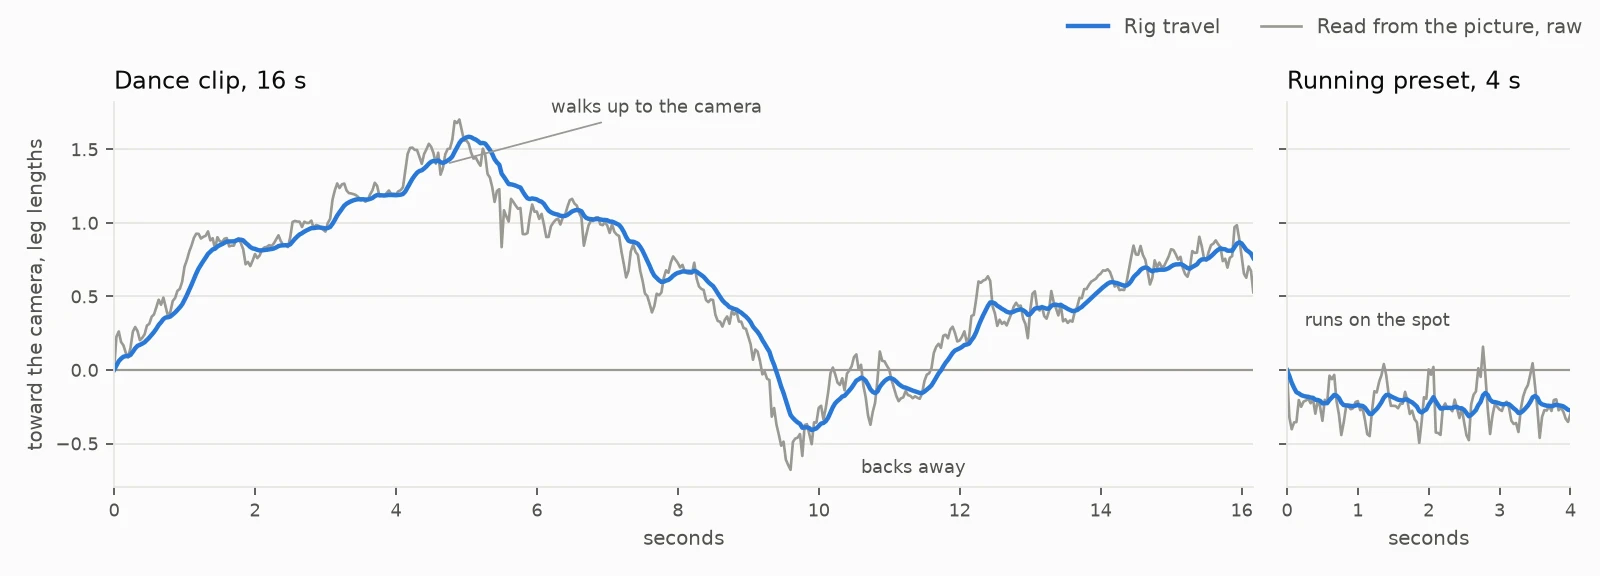
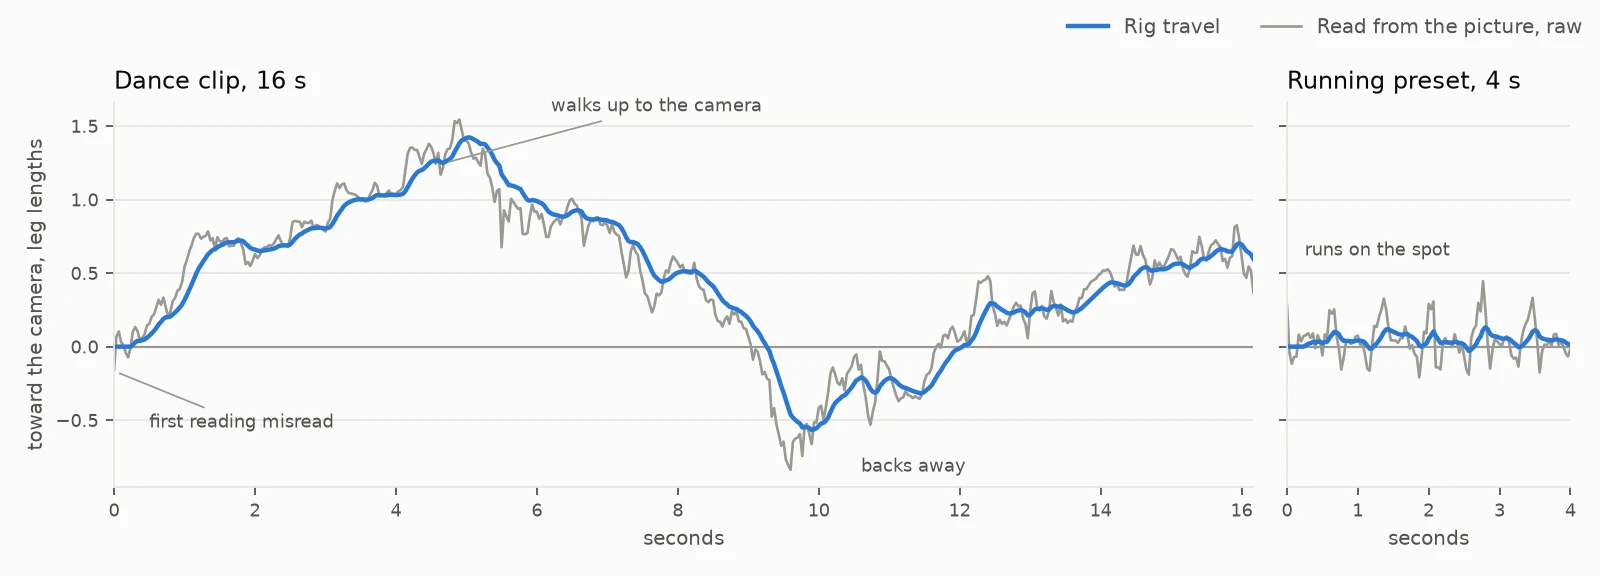
fix: steady the first frame of a new capture source
A video's first reading is a fresh detection rather than a tracked one, and on
both attached clips its depth was off by 15 to 18 cm. Travel was measured from
it, so the rig slid a fifth of a leg at the start and the whole take kept that
offset. The start is now the median of the first quarter second of readings,
with the rig held still while they are read: the running preset stays within
an eighth of a leg of its spot and ends where it began.

With lost limbs now held, the first frame of a new video, photo or camera
session would also have kept whatever pose the rig was left in for a limb it
cannot see. That frame resets every limb it may drive, so an unseen one starts
from rest. The source reset is renamed startNewCameraSource for both.

Claude-Session: https://claude.ai/code/session_01BnQFqnDgVXWFXYHvxa8r9Y

diff --git a/src/views/Tools/RigAnimator/cameraPoseTravel.ts b/src/views/Tools/RigAnimator/cameraPoseTravel.ts
@@ -8,6 +8,7 @@ import {
   CAMERA_FOOT_RELEASE_LIFT_SHARE,
   CAMERA_FOOT_RELEASE_MILLISECONDS,
   CAMERA_LANDMARK_VISIBILITY_THRESHOLD,
+  CAMERA_TRAVEL_ANCHOR_MILLISECONDS,
   CAMERA_TRAVEL_SMOOTHING_MILLISECONDS
 } from './config'
 import {
@@ -141,13 +142,29 @@ export const rigLegLength = (rest: CameraRetargetRest): number | null => {
 const isContinuous = (elapsedSeconds: number): boolean =>
   elapsedSeconds > 0 && elapsedSeconds <= CAMERA_BONE_SMOOTHING_RESET_SECONDS
 
+const median = (values: number[]): number => {
+  const sorted = [...values].sort((a, b) => a - b)
+  const middle = Math.floor(sorted.length / 2)
+  return sorted.length % 2 === 1 ? sorted[middle] : (sorted[middle - 1] + sorted[middle]) / 2
+}
+
+/** Where a set of readings agree the performer stands, axis by axis, so one misread is outvoted. */
+const medianPosition = (readings: Vector3Data[]): Vector3Data => ({
+  x: median(readings.map(({ x }) => x)),
+  y: median(readings.map(({ y }) => y)),
+  z: median(readings.map(({ z }) => z))
+})
+
 /**
  * Carry the rig across the floor to where the performer now stands, measured from where they
  * stood when the source started and scaled by the two leg lengths, so a performer's stride is the
- * rig's stride. Only the level part is taken: height is grounding's job. The rig eases toward the
- * new spot over `CAMERA_TRAVEL_SMOOTHING_MILLISECONDS`; after a gap in the readings, a paused or
- * seeked video, it lands straight on it, still measured from the same start, so a clip seeked or
- * replayed puts the rig where the performer is at that moment.
+ * rig's stride. Only the level part is taken: height is grounding's job. The start is where the
+ * readings of the first `CAMERA_TRAVEL_ANCHOR_MILLISECONDS` agree the performer stood, and the rig
+ * stays put while it is read, so the misread first frame of a video neither slides the rig nor
+ * offsets the take. The rig then eases toward each new spot over
+ * `CAMERA_TRAVEL_SMOOTHING_MILLISECONDS`; after a gap in the readings, a paused or seeked video, it
+ * lands straight on it, still measured from the same start, so a clip seeked or replayed puts the
+ * rig where the performer is at that moment.
  * @param previous The travel so far, or null for the first reading of a source
  * @param reading Where the performer stands and how long their legs are, this frame
  * @param rigLegLengthUnits The rig's own leg length, from `rigLegLength`
@@ -164,12 +181,32 @@ export const advanceCameraTravel = (
     return {
       origin: reading.bodyPosition,
       performerLegLength: reading.performerLegLength,
-      offset: { x: 0, y: 0, z: 0 }
+      offset: { x: 0, y: 0, z: 0 },
+      sourceSeconds: 0,
+      startReadings: [reading.bodyPosition]
     }
   }
   const share = isContinuous(elapsedSeconds)
     ? lowPassBlendFactor(smoothingCutoffHertz(CAMERA_TRAVEL_SMOOTHING_MILLISECONDS), elapsedSeconds)
     : 1
+  const sourceSeconds = previous.sourceSeconds + (isContinuous(elapsedSeconds) ? elapsedSeconds : 0)
+  if (
+    previous.startReadings.length > 0 &&
+    sourceSeconds < CAMERA_TRAVEL_ANCHOR_MILLISECONDS / 1000
+  ) {
+    const startReadings = [...previous.startReadings, reading.bodyPosition]
+    return {
+      ...previous,
+      origin: medianPosition(startReadings),
+      performerLegLength: THREE.MathUtils.lerp(
+        previous.performerLegLength,
+        reading.performerLegLength,
+        share
+      ),
+      sourceSeconds,
+      startReadings
+    }
+  }
   const performerLegLength = THREE.MathUtils.lerp(
     previous.performerLegLength,
     reading.performerLegLength,
@@ -185,7 +222,9 @@ export const advanceCameraTravel = (
   return {
     origin: previous.origin,
     performerLegLength,
-    offset: { x: toward('x'), y: 0, z: toward('z') }
+    offset: { x: toward('x'), y: 0, z: toward('z') },
+    sourceSeconds,
+    startReadings: []
   }
 }
 

diff --git a/src/views/Tools/RigAnimator/useRigCameraPose.test.ts b/src/views/Tools/RigAnimator/useRigCameraPose.test.ts
@@ -7,7 +7,10 @@ import { captureCameraRetargetRest } from './cameraPoseRetarget'
 import { rigLegLength } from './cameraPoseTravel'
 import { RIG_BODY_PART_GROUPS, type RigBodyPartGroup } from './bodyPartGroups'
 import { smoothCameraPoseFrame } from './cameraPoseFrame'
-import { CAMERA_BONE_MAX_TURN_DEGREES_PER_SECOND } from './config'
+import {
+  CAMERA_BONE_MAX_TURN_DEGREES_PER_SECOND,
+  CAMERA_TRAVEL_ANCHOR_MILLISECONDS
+} from './config'
 import {
   buildBodyLandmarks,
   buildHandLandmarks,
@@ -131,6 +134,31 @@ describe('useRigCameraPose', () => {
     }
   )
 
+  it('starts a limb the first frame of a new source cannot see from rest, not from the last source', () => {
+    // Arrange: the last source left the left arm raised
+    const { applyCameraPose, startNewCameraSource, bone, restPoses } = buildWiredRig()
+    applyCameraPose(
+      {
+        ...EMPTY_FRAME,
+        bodyLandmarks: buildBodyLandmarks({ 13: [0.2, -0.8, 0], 15: [0.22, -1.05, 0] })
+      },
+      OPTIONS,
+      ALL_GROUPS
+    )
+    const elbowLost = buildBodyLandmarks().map((landmark, index) =>
+      index === 13 ? { ...landmark, visibility: 0 } : landmark
+    )
+
+    // Act: a new video starts on a frame that cannot see that elbow
+    startNewCameraSource()
+    applyCameraPose({ ...EMPTY_FRAME, bodyLandmarks: elbowLost }, OPTIONS, ALL_GROUPS)
+
+    // Assert
+    expect(
+      bone('mixamorigLeftArm').quaternion.angleTo(restPoses.get('mixamorigLeftArm')!.quaternion)
+    ).toBeCloseTo(0)
+  })
+
   it('curls the fingers of a hand filmed on its own without resetting the posed body', () => {
     // Arrange: the body is posed by an earlier frame, then only a hand stays in view.
     const { applyCameraPose, bone } = buildWiredRig()
@@ -166,15 +194,17 @@ describe('useRigCameraPose', () => {
       bodyLandmarks: STANDING,
       bodyPosition: { x: 0, y: 0, z: -3 + metresCloser }
     })
-    /** A walk of `metres` toward the camera over two seconds, then two seconds standing there. */
+    /** Frames the performer stands still for before walking, as long as the start is taken over. */
+    const STANDING_FRAMES = Math.ceil(CAMERA_TRAVEL_ANCHOR_MILLISECONDS / FRAME_MILLISECONDS)
+    /** Standing still, a walk of `metres` toward the camera over two seconds, then two seconds there. */
     const walkToward = (
       applyCameraPose: ReturnType<typeof buildWiredRig>['applyCameraPose'],
       options: ReturnType<typeof buildMappingOptions>,
       metres: number
     ): void =>
-      Array.from({ length: 120 }).forEach((_, index) =>
+      Array.from({ length: STANDING_FRAMES + 120 }).forEach((_, index) =>
         applyCameraPose(
-          standingAt(Math.min(1, index / 60) * metres),
+          standingAt(Math.min(1, Math.max(0, index - STANDING_FRAMES) / 60) * metres),
           options,
           ALL_GROUPS,
           index * FRAME_MILLISECONDS
@@ -294,12 +324,12 @@ describe('useRigCameraPose', () => {
 
     it('starts the next source from the rig’s own spot, not from where the last one left it', () => {
       // Arrange
-      const { applyCameraPose, resetCameraTravel, bone, restPoses } = buildWiredRig()
+      const { applyCameraPose, startNewCameraSource, bone, restPoses } = buildWiredRig()
       const options = buildMappingOptions({ followTravel: true })
       walkToward(applyCameraPose, options, 1)
 
       // Act
-      resetCameraTravel()
+      startNewCameraSource()
       applyCameraPose(standingAt(0.5), options, ALL_GROUPS, 10_000)
 
       // Assert

diff --git a/src/views/Tools/RigAnimator/cameraPoseTravel.test.ts b/src/views/Tools/RigAnimator/cameraPoseTravel.test.ts
@@ -13,6 +13,7 @@ import { buildBodyLandmarks, buildMixamoRig } from './fixtures/cameraPoseFixture
 import {
   CAMERA_FOOT_PIN_MAX_STRETCH_SHARE,
   CAMERA_FOOT_RELEASE_MILLISECONDS,
+  CAMERA_TRAVEL_ANCHOR_MILLISECONDS,
   CAMERA_TRAVEL_SMOOTHING_MILLISECONDS
 } from './config'
 import type { CameraFootPins, CameraLandmark, CameraTravel } from './types'
@@ -130,6 +131,13 @@ describe('advanceCameraTravel', () => {
       (travel) => advanceCameraTravel(travel, next, RIG_LEG, FRAME_SECONDS),
       start
     )
+  /** A source whose performer stood three metres away for as long as the start is taken over. */
+  const standingStart = (): CameraTravel =>
+    settle(
+      advanceCameraTravel(null, reading(0, -3), RIG_LEG, Infinity),
+      reading(0, -3),
+      CAMERA_TRAVEL_ANCHOR_MILLISECONDS / 1000
+    )
 
   it('starts where the performer first stands', () => {
     // Act
@@ -139,13 +147,24 @@ describe('advanceCameraTravel', () => {
     expect(travel.offset).toEqual({ x: 0, y: 0, z: 0 })
   })
 
+  it('takes the start from the first readings together, so one misread first reading moves nothing', () => {
+    // Arrange: the very first reading, a fresh detection, puts the performer 20 cm too close
+    const misread = advanceCameraTravel(null, reading(0, -2.8), RIG_LEG, Infinity)
+
+    // Act: the performer actually stands still three metres away throughout
+    const travel = settle(misread, reading(0, -3), 2)
+
+    // Assert
+    expect(travel.offset.z).toBeCloseTo(0, 0)
+  })
+
   it.each([
     { label: 'toward the camera', x: 0, z: -2, expected: { x: 0, z: 100 } },
     { label: 'away from the camera', x: 0, z: -3.5, expected: { x: 0, z: -50 } },
     { label: 'to the right', x: 0.5, z: -3, expected: { x: 50, z: 0 } }
   ])('carries the rig $label, in rig units scaled by leg length', ({ x, z, expected }) => {
     // Arrange
-    const start = advanceCameraTravel(null, reading(0, -3), RIG_LEG, Infinity)
+    const start = standingStart()
 
     // Act
     const travel = settle(start, reading(x, z), (CAMERA_TRAVEL_SMOOTHING_MILLISECONDS / 1000) * 12)
@@ -158,7 +177,7 @@ describe('advanceCameraTravel', () => {
 
   it('eases toward a new position rather than jumping to it', () => {
     // Arrange
-    const start = advanceCameraTravel(null, reading(0, -3), RIG_LEG, Infinity)
+    const start = standingStart()
 
     // Act
     const travel = advanceCameraTravel(start, reading(0, -2), RIG_LEG, FRAME_SECONDS)
@@ -175,7 +194,7 @@ describe('advanceCameraTravel', () => {
     'lands straight on where the performer is after $label, measured from the same start',
     ({ elapsedSeconds }) => {
       // Arrange
-      const start = advanceCameraTravel(null, reading(0, -3), RIG_LEG, Infinity)
+      const start = standingStart()
       const walked = settle(start, reading(0, -2), 3)
 
       // Act

diff --git a/src/views/Tools/RigAnimator/useRigCameraPose.ts b/src/views/Tools/RigAnimator/useRigCameraPose.ts
@@ -51,11 +51,18 @@ export const useRigCameraPose = (
   let travel: CameraTravel | null = null
   /** Each foot held where it landed. */
   let footPins: CameraFootPins = {}
+  /** Whether no body has been applied since the source started, so there is no pose to hold. */
+  let isFreshSource = true
 
-  /** Start the next reading from the rig's own spot, as a new video or camera session should. */
-  const resetCameraTravel = (): void => {
+  /**
+   * Start the next reading afresh, as a new video, photo or camera session should: travel from the
+   * rig's own spot, no foot held, and a limb the first frame cannot see at rest rather than held in
+   * whatever pose the rig was left in.
+   */
+  const startNewCameraSource = (): void => {
     travel = null
     footPins = {}
+    isFreshSource = true
   }
 
   // Synchronous on purpose: the rig stands at rest the instant its bones are adopted, and a
@@ -65,7 +72,7 @@ export const useRigCameraPose = (
     (nextBones) => {
       retargetRest = nextBones.length > 0 ? captureCameraRetargetRest(nextBones) : null
       turnTracks.clear()
-      resetCameraTravel()
+      startNewCameraSource()
     },
     { immediate: true, flush: 'sync' }
   )
@@ -123,11 +130,14 @@ export const useRigCameraPose = (
     timestampMilliseconds: number = performance.now()
   ): void => {
     if (!retargetRest) return
+    // A cut-off of 0 counts every limb as seen: each is reset to rest, and only the ones really in
+    // view are posed.
     const drivenBoneNames = cameraFrameDrivenBoneNames(
       frame,
       boneNamesInGroups(bones.value, targetGroups),
-      options.visibilityThreshold
+      isFreshSource ? 0 : options.visibilityThreshold
     )
+    if (frame.bodyLandmarks) isFreshSource = false
     const previousTransforms =
       options.boneSmoothingMilliseconds > 0 || options.maxBoneTurnRadiansPerSecond > 0
         ? captureBoneTransforms(bones.value, drivenBoneNames)
@@ -165,5 +175,5 @@ export const useRigCameraPose = (
     }
   }
 
-  return { canCaptureFromCamera, applyCameraPose, resetCameraTravel }
+  return { canCaptureFromCamera, applyCameraPose, startNewCameraSource }
 }

diff --git a/src/views/Tools/RigAnimator/config.ts b/src/views/Tools/RigAnimator/config.ts
@@ -346,6 +346,13 @@ export const CAMERA_LANDMARK_MAX_JUMP_METERS = 0.15
  * up with a walk. See the travel journey doc for the clip it was measured on.
  */
 export const CAMERA_TRAVEL_SMOOTHING_MILLISECONDS = 250
+/**
+ * How long, in milliseconds, where the performer stands at the start is read over before the rig
+ * travels from it. The first reading of a video is a fresh detection rather than a tracked one, and
+ * on both attached clips its depth was off by 15 to 18 cm: taken alone as the start, it slid the
+ * rig at the first frames and offset the whole take by that much.
+ */
+export const CAMERA_TRAVEL_ANCHOR_MILLISECONDS = 250
 /** How few in-picture body landmarks are too few to judge how large the performer appears. */
 export const CAMERA_BODY_POSITION_MIN_LANDMARKS = 6
 /**

diff --git a/src/views/Tools/RigAnimator/types.ts b/src/views/Tools/RigAnimator/types.ts
@@ -315,6 +315,10 @@ export interface CameraTravel {
   performerLegLength: number
   /** How far the rig's hips are carried from where they stand at rest, in world units, level. */
   offset: Vector3Data
+  /** How long the source has been read for, in seconds. */
+  sourceSeconds: number
+  /** The readings the start is still being taken from; empty once it is settled. */
+  startReadings: Vector3Data[]
 }
 
 /** One foot held where it landed, and how firmly. */

diff --git a/src/views/Tools/RigAnimator/RigAnimator.vue b/src/views/Tools/RigAnimator/RigAnimator.vue
@@ -812,7 +812,7 @@ onUnmounted(() => {
     :fps="reactiveConfig.fps"
     :target-group-labels="targetBodyPartGroupLabels"
     @apply="handleCameraApply"
-    @new-source="rig.resetCameraTravel"
+    @new-source="rig.startNewCameraSource"
     @close="handleCloseCamera"
     @toggle-record="handleToggleRecord"
     @enable-preview="reactiveConfig.cameraShowPreview = true"

diff --git a/documentation/docs/journey/camera-capture-travel.md b/documentation/docs/journey/camera-capture-travel.md
@@ -71,7 +71,15 @@ its changing pose alone. Easing toward it over a quarter of a second keeps the w
 jitter; the rig's movement is the performer's scaled by the ratio of the two leg lengths, so a
 stride is the rig's stride.
 
-![Depth travel over time, in leg lengths toward the camera: on the dance clip the rig follows the raw reading's trend up to about 1.5 as she walks in, back below zero as she backs away and up again; on the running preset it stays in a narrow band around its starting spot](/img/animation/rig-camera-travel-chart.webp)
+The first reading is not like the rest. A video's first frame is a fresh detection rather than a
+tracked one, and its depth was off by 15 cm on the dance clip and 18 cm on the running preset.
+Taken on its own as the start, it slid the rig a fifth of a leg in the first third of a second and
+offset the whole take by as much: the running preset settled a quarter of a leg from where it
+began. The start is now where the readings of the first quarter second agree, their median, with
+the rig held still while they are read; the running preset now stays within an eighth of a leg of
+its spot and ends where it began.
+
+![Depth travel over time, in leg lengths toward the camera: on the dance clip the rig follows the raw reading's trend up to about 1.4 as she walks in, back below zero as she backs away and up again, ignoring the misread first reading; on the running preset it stays in a narrow band around its starting spot](/img/animation/rig-camera-travel-chart.webp)
 
 ## Holding the feet still
 
@@ -104,10 +112,10 @@ keeps the legs within about 18° of the capture while more than halving the slid
 | ---------------------------------------- | ------------------------ | --------------- | ------------------------------------- |
 | Dance, rig on one spot (before)          | 3.2%                     | 7.2%            |                                       |
 | Dance, travel                            | 3.8%                     | 7.8%            |                                       |
-| Dance, travel and pinned feet            | 1.4%                     | 4.5%            | 7.5° mean, 18° at the 95th percentile |
+| Dance, travel and pinned feet            | 1.4%                     | 4.6%            | 7.4° mean, 18° at the 95th percentile |
 | Running preset, rig on one spot (before) | 9.9%                     | 19.1%           |                                       |
-| Running preset, travel                   | 9.8%                     | 18.1%           |                                       |
-| Running preset, travel and pinned feet   | 6.1%                     | 16.6%           | 6.6° mean, 22° at the 95th percentile |
+| Running preset, travel                   | 9.7%                     | 17.9%           |                                       |
+| Running preset, travel and pinned feet   | 6.0%                     | 16.6%           | 6.5° mean, 21° at the 95th percentile |
 
 Travel alone slides a planted foot slightly more than standing still, since the body now moves
 and the leg does not know it. Pinning is what brings it down. The running preset keeps sliding by
@@ -155,7 +163,7 @@ came from tracking background features outside the dancer's outline between fram
   flying, and a contact is judged by height alone.
 - **The focal length is assumed.** A lens wider or narrower than a 53° diagonal scales the whole
   path by the same factor.
-- **The start is one reading.** Its noise offsets the whole take by up to a quarter of a leg; the
-  running preset's chart line sits just below zero for that reason.
+- **The first quarter second does not travel.** The start is read over it, so a performer already
+  walking when the source starts is followed from a quarter second in.
 - **Legs out of view, no travel.** A webcam framed on the upper body has nothing to scale the
   travel by, and the rig stays where it last was.

diff --git a/documentation/docs/guides/rig-animator.md b/documentation/docs/guides/rig-animator.md
@@ -602,7 +602,9 @@ the libraries and papers it draws on, and what the attached dance clip showed ar
   appears against its real size gives the distance, and where the hips appear gives the side
   position. The rig eases toward that spot over a quarter of a second and moves by the performer's
   own travel scaled by the ratio of the two leg lengths, measured from where the performer stood
-  when the video, photo or camera session started. Pausing or seeking a video lands the rig
+  when the video, photo or camera session started. That start is where the first quarter second of
+  readings agree, with the rig held still meanwhile, since a video's very first reading is a fresh
+  detection whose depth can be off by a hand's width. Pausing or seeking a video lands the rig
   straight on the spot for that moment.
 - **Planted feet.** The lower foot is taken as planted where it lands and held there while the
   body moves over it, the leg bent to reach it. It is let go, easing back over a tenth of a second
